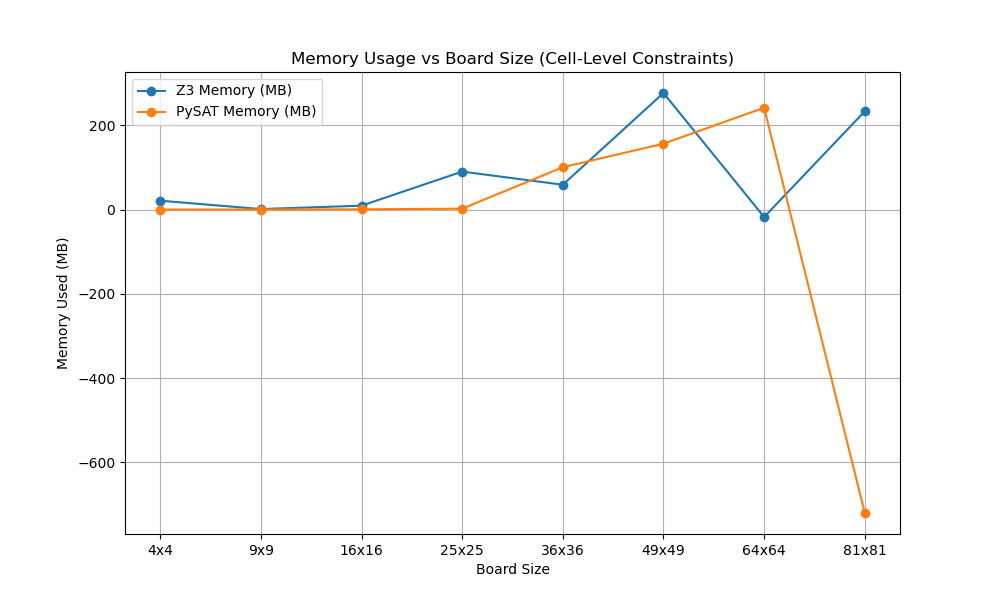
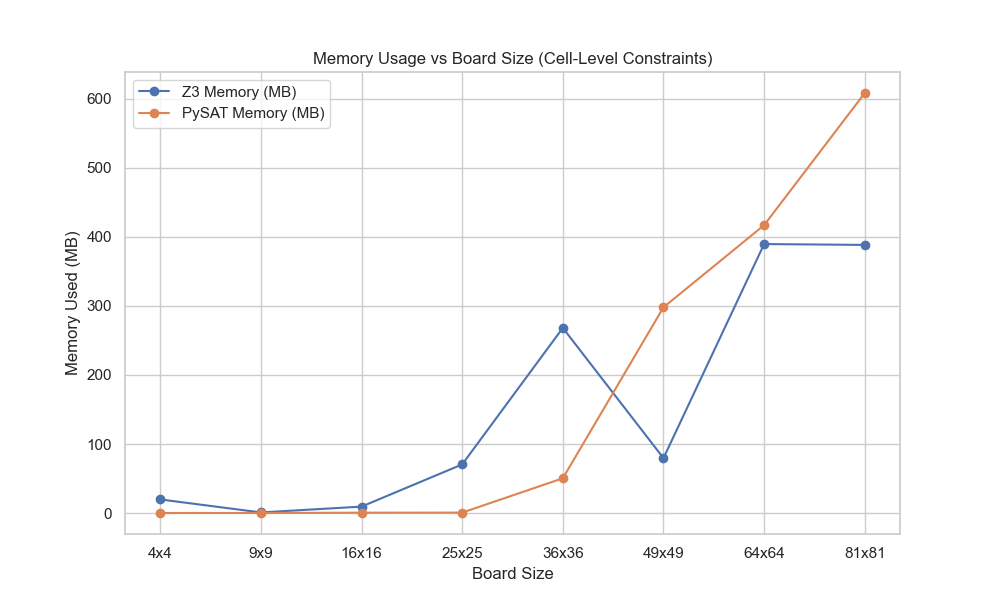
Add benchmark updates, memory and time graphs

diff --git a/SAT_IO/benchmark.py b/SAT_IO/benchmark.py
@@ -1,5 +1,6 @@
 import psutil, time
 import matplotlib.pyplot as plt
+import seaborn as sns 
 from z3 import Solver, Bool, Or, Not
 from pysat.solvers import Minisat22
 
@@ -45,7 +46,8 @@ def benchmark(solver_func, cnf):
     solver_func(cnf)
     end_time = time.time()
     mem_after = process.memory_info().rss / (1024 * 1024)
-    return round(mem_after - mem_before, 2), round(end_time - start_time, 3)
+    memory_used = abs(mem_after - mem_before)
+    return round(memory_used, 2), round(end_time - start_time, 3)
 
 if __name__ == "__main__":
     # Block sizes (board size = block^2 x block^2)
@@ -71,6 +73,9 @@ if __name__ == "__main__":
         pysat_time.append(time_ps)
 
         print(f"{n}x{n} | Z3: {mem_z3} MB, {time_z3}s | PySAT: {mem_ps} MB, {time_ps}s")
+
+  
+    sns.set(style="whitegrid")
 
     # Save memory plot
     plt.figure(figsize=(10, 6))
